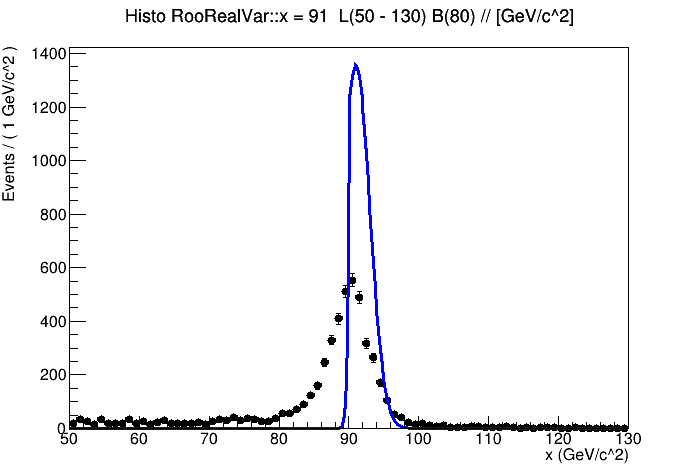
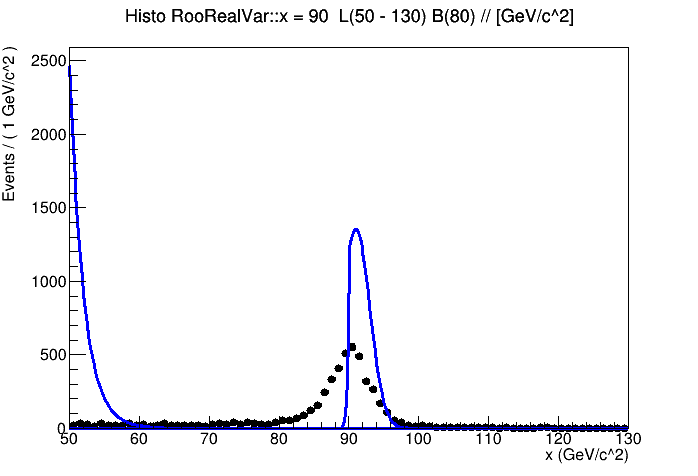
addPdf first try

Changed region(s): [[0.0903, 0.1471, 0.6318, 0.9118], [0.0301, 0.0882, 0.1504, 0.8235], [0.4513, 0.0, 0.4814, 0.0588]]

diff --git a/import_functions.py b/import_functions.py
@@ -38,7 +38,7 @@ def import_histo(histo_th3, bin_pt, bin_eta):
         "histo_mass", bin_pt[0], bin_pt[1], bin_eta[0], bin_eta[1])
     xAxis = histo_th1.GetXaxis()
 
-    x = ROOT.RooRealVar("x", "x", 91, xAxis.GetXmin(),
+    x = ROOT.RooRealVar("x", "x", xAxis.GetXmin(),
                         xAxis.GetXmax(), unit="GeV/c^2")
 
     roohist = ROOT.RooDataHist("roohist", "roohist", [x], Import=histo_th1)
@@ -67,6 +67,9 @@ if __name__ == '__main__':
     e = ROOT.RooRealVar("e", "e", 10, 0, 20)
     f = ROOT.RooRealVar("f", "f", 2, 0.1, 10)
     g = ROOT.RooRealVar("g", "g", 0.2, 0, 1)
-    func = ROOT.RooCBExGaussShape("prova", "prova", x, b, c, d, e, f, g)
+    tau = ROOT.RooRealVar("tau", "tau", -0.5, -1, 1)
+    func1 = ROOT.RooCBExGaussShape("prova", "prova", x, b, c, d, e, f, g)
+    func2 = ROOT.RooExponential("expo", "expo", x, tau)
+    sum = ROOT.RooAddPdf("pdf", "pdf", [func1, func2], [1])
 
-    makeAndSavePlot(x, dh, func, name="prova_custompdf.png")
+    makeAndSavePlot(x, dh, func1, func2, name="prova_custompdf.png")

diff --git a/utilities.py b/utilities.py
@@ -11,12 +11,14 @@ def makeGaussianHisto():
     return hh
 
 
-def makeAndSavePlot(axis, histo, func, name='prova.png', title="Histo"):
+def makeAndSavePlot(axis, histo, func1, func2, name='prova.png', title="Histo"):
     c = ROOT.TCanvas()
     c.cd()
+    sum = ROOT.RooAddPdf("pdf", "pdf", [func1, func2], [1])
     frame = axis.frame(Title=title+' '+str(axis))
     histo.plotOn(frame)
-    func.plotOn(frame)
+    func2.plotOn(frame)
+    sum.plotOn(frame)
     frame.Draw()
     c.SaveAs(name)
 
